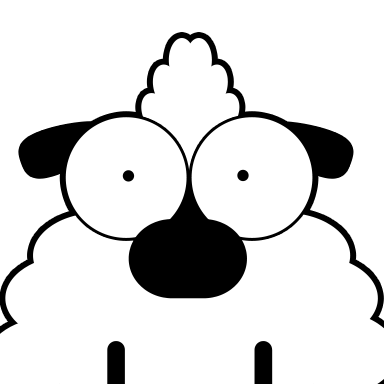
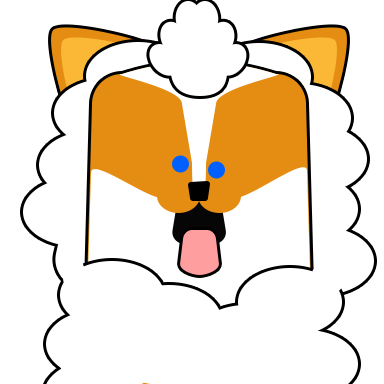
Update wrong guess button states (try again/team loses) and incorporate local asset and string edits

diff --git a/config_strings.js b/config_strings.js
@@ -1,5 +1,5 @@
 const STRINGS = {
-  APP_TITLE: "Choose a Game",
+  APP_TITLE: "Words & Wolves",
   HEADER_CHOOSE_GAME: "Choose a Game",
   HEADER_ASK_SHEPHERD: "Ask the Shepherd",
   HEADER_FOLLOW_FLOCK: "Follow the Flock",
@@ -18,13 +18,16 @@ const STRINGS = {
   BTN_TRY_AGAIN: "Try Again",
   ABOUT_TITLE: "About the Game",
   ABOUT_TEXT: `<h3>Guess The Word</h3>
-<p>Welcome to <strong>Guess The Word</strong>, a premium pass-and-play social deduction game designed for groups of 3 to 10 players to play together in person on a single device!</p>
+<p>Welcome to <strong>Words & Wolves</strong>, a premium pass-and-play social deduction game designed for groups of 4 or more players using a single laptop, tablet or mobile device!</p>
 
 <h4>Ask the Shepherd</h4>
-<p>In this mode, one player is the Shepherd who knows the secret word. Others ask yes/no questions in circle order. Watch out for the Wolves who also know the secret word and are trying to subtly mislead the team into choosing the wrong word. The Sheepdogs must work together to finalize the correct word and root out the hidden wolves!</p>
+<p>In this mode, one player is the Shepherd who knows the secret word. Others ask yes/no questions in circle order. Watch out for the Wolves who also know the secret word and are trying to subtly mislead the team into choosing the wrong word. The Sheepdogs must organize the final votes for guessing the correct word and rooting out the hidden wolves.</p>
 
 <h4>Follow the Flock</h4>
-<p>All players except one (the Chameleon) know the secret word. Players take turns saying a single word related to the secret word. The Chameleon must bluff and fit in without knowing the word, then guess the word if they are voted out.</p>
+<p>All players except the Wolves know the secret word. Players take turns saying a single word related to the secret word. The Wolves must bluff and fit in without knowing the word, then guess the word if they are voted out.</p>
+
+<h4>AI Disclosures</h4>
+<p>No AI-generated art or layouts were used in this app. Generative AI was used to write the code and perform developer documentation and operations. Steps were taken to avoid the theft of human artistic works.</p>
 
 <p style="margin-top: 16px; font-size: 0.85rem; color: var(--color-text-muted);">Developed with premium aesthetics and dynamic visual themes.</p>`,
 

diff --git a/app.js b/app.js
@@ -621,6 +621,14 @@ function initVoteWord() {
   // Update tries left text subtitle
   document.getElementById('vote-word-tries-subtitle').textContent = `${state.triesLeft} ${state.triesLeft === 1 ? 'try' : 'tries'} left`;
   
+  // Update wrong button text based on remaining tries
+  const wrongBtn = document.getElementById('btn-vote-word-wrong');
+  if (state.triesLeft > 1) {
+    wrongBtn.textContent = "WRONG (try again)";
+  } else {
+    wrongBtn.textContent = "WRONG (team loses)";
+  }
+  
   showScreen('voteWord');
 }
 